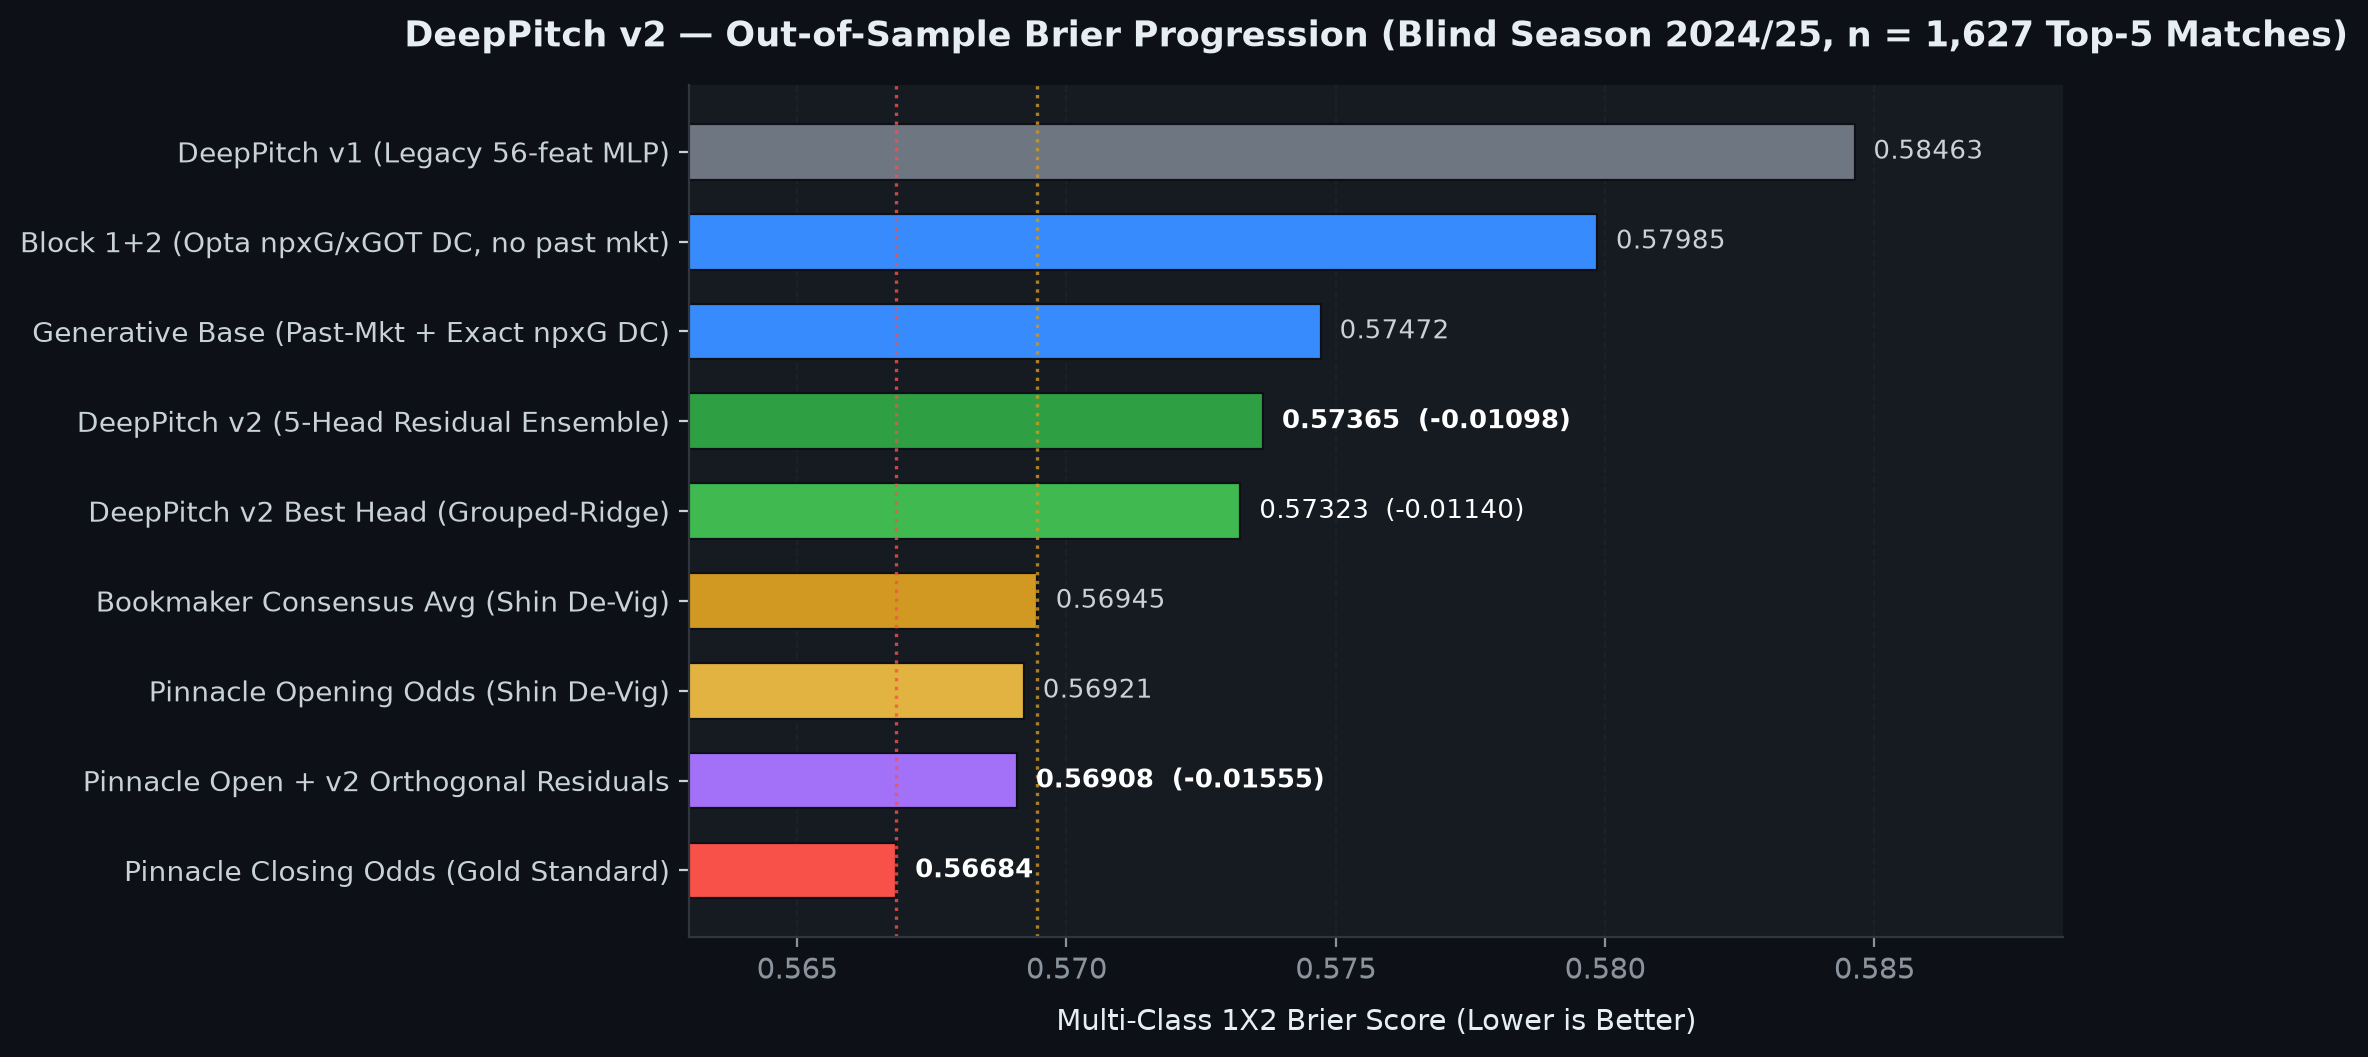
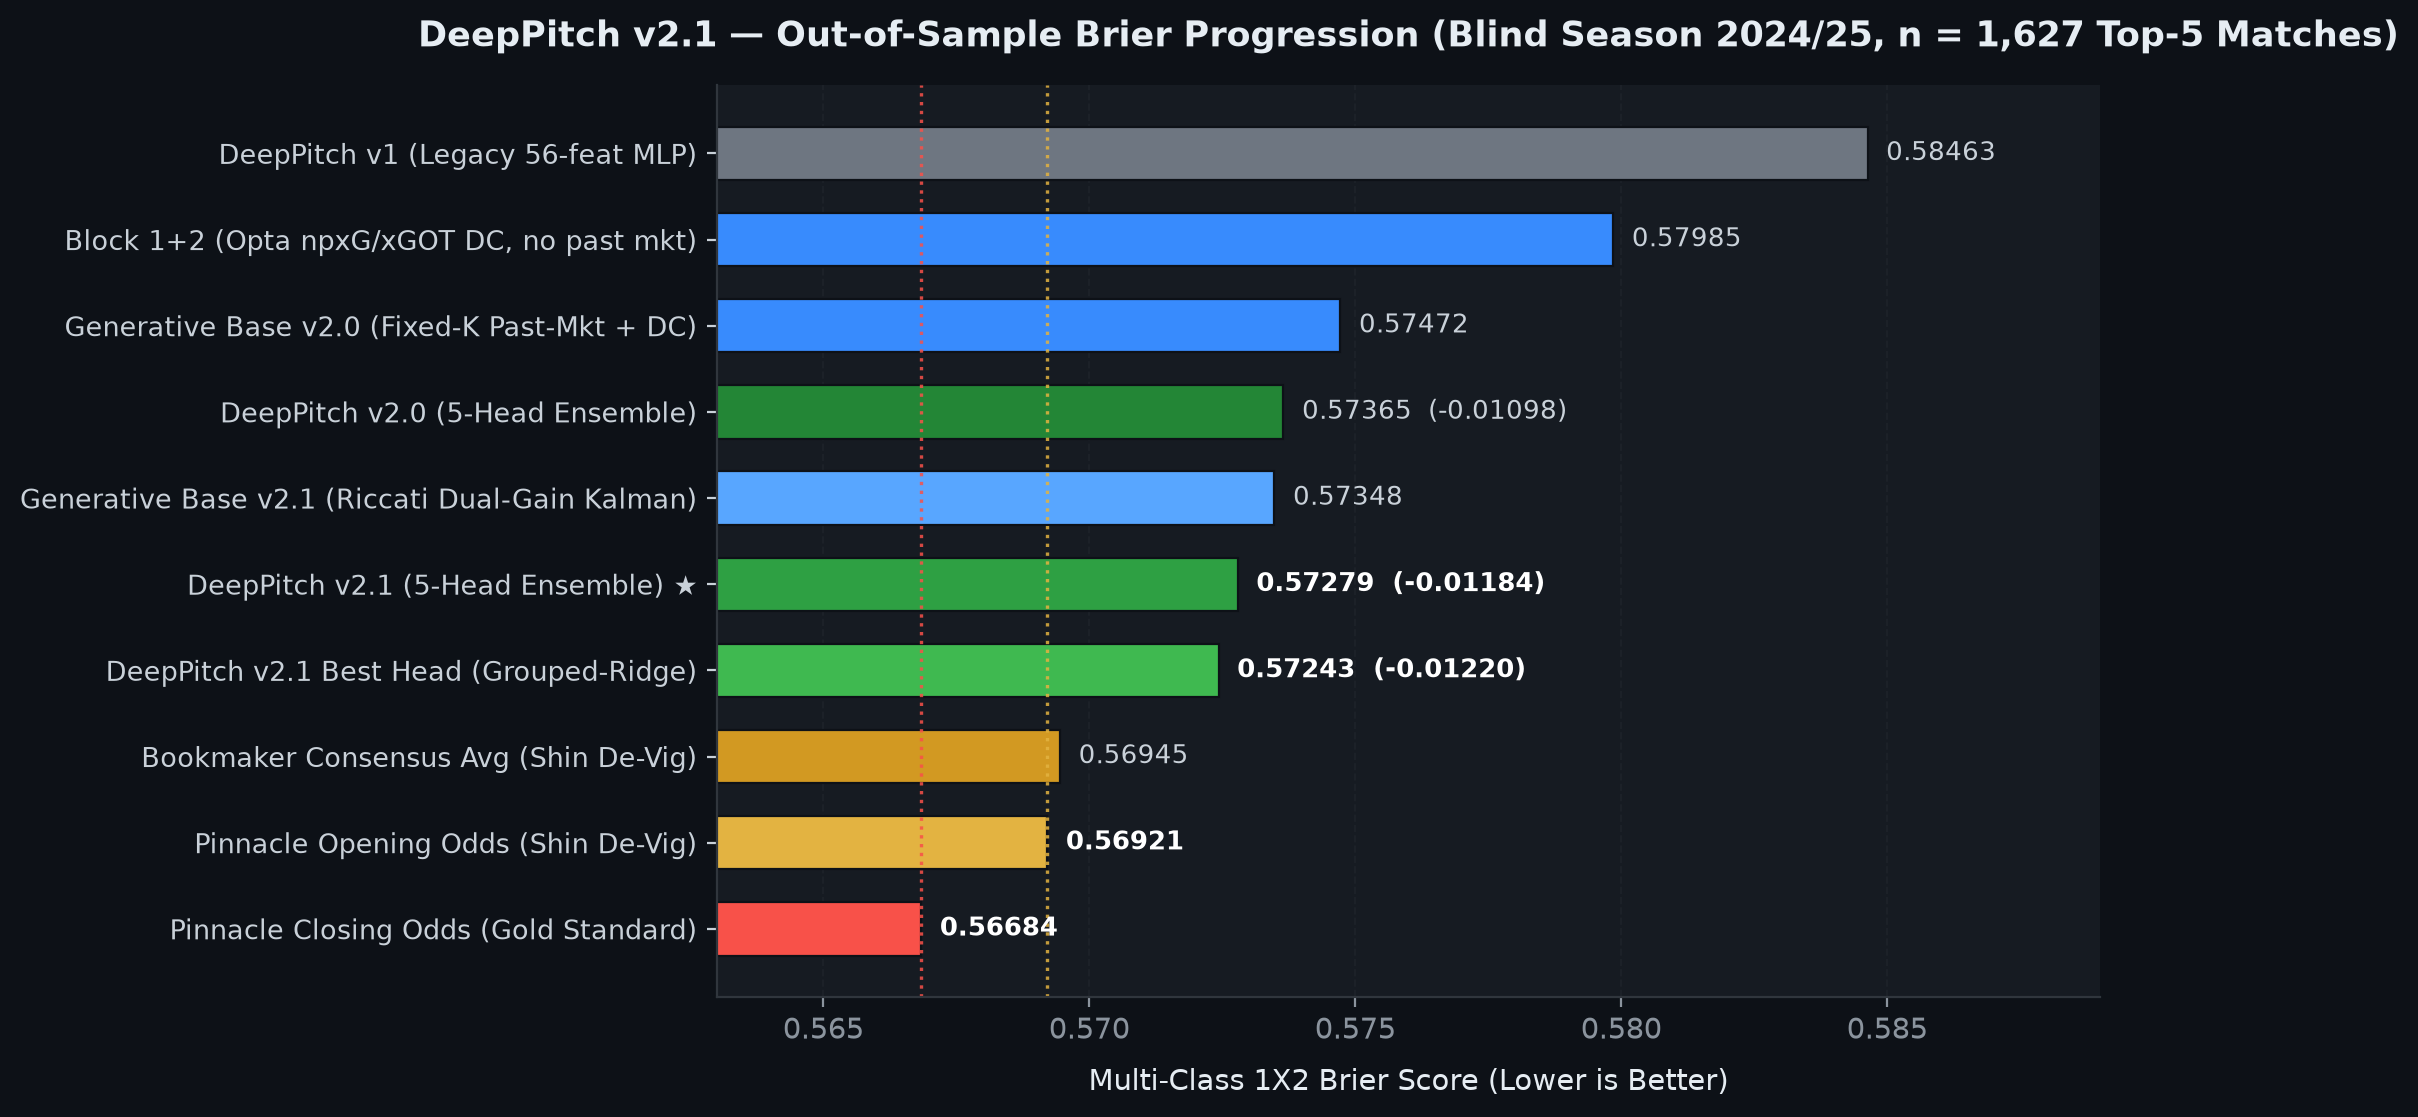
docs: regenerate v2.1 OOS charts (01-03) and 6-season EV 2.5-6.0% economic table

Changed region(s): [[0.0, 0.0937, 0.875, 0.9991], [0.1562, 0.0, 1.0, 0.0624], [0.375, 0.8117, 0.4375, 0.843]]

diff --git a/README.md b/README.md
@@ -113,22 +113,22 @@ Tested strictly out-of-sample on `136` completed `2026/27` Top-5 matches with pr
 | **`v2` WITH Fresh Injuries + TrapGuard** | **`0.55265`** (`-0.00104`) | **`0.54332`** (`-0.00171`) | `36` bets (`2` traps blocked) \| **`50.0%` WR** \| `+4.71u` | `36` bets (`3` traps blocked) \| **`58.3%` WR** \| **`+16.76u`** |
 | **Bookmaker Consensus Avg (Shin)** | `0.55060` | `0.53928` | — | — |
 
-### 3. Six-Season Out-of-Sample Economic Evaluation (`2019–2025`, `EV ∈ [1%, 8%)`)
+### 3. Six-Season Out-of-Sample Economic Evaluation (`v2.1`, `2019–2025`, `EV ∈ [2.5%, 6.0%)`)
 
-Why **`EV ∈ [1.0%, 8.0%)`**? Empirical diagnostics across 9,768 OOS matches reveal classic **stale-price adverse selection** in the extreme `EV ≥ 8%` tail: when a pre-match model disagrees with Pinnacle by `> 8%`, it is disproportionately due to breaking matchday news ($\mathcal{F}_t \setminus \mathcal{F}_{t-1}$: late injuries, suspensions, or Champions League rotation). Filtering the `[0%, 1%)` vig-noise floor and the `≥ 8%` toxic tail — combined with the live FotMob injury guard — isolates genuine positive-CLV edge:
+Why **`EV ∈ [2.5%, 6.0%)`**? Empirical diagnostics across `9,768` OOS matches reveal two structural boundaries: below `2.5%` vig-noise dilutes realized edge, while above **`6.0%`** classic **stale-price adverse selection** dominates (`-2.2%` flat yield in `6–9%`, `-5.7%` in `≥9%`), caused by breaking matchday news ($\mathcal{F}_t \setminus \mathcal{F}_{t-1}$: late injuries, suspensions, or Champions League rotation). Filtering to **`EV ∈ [2.5%, 6.0%)`** with **Quarter-Kelly (`3.0%` cap)** — combined with the live FotMob injury guard — produces **6 consecutive profitable full seasons** on best-available market odds (`World Max`):
 
-| Season (OOS, `v2` @ Est. ADM-Best, `EV ∈ [1%, 8%)`) | Bets | Win Rate | Flat PnL | Flat Yield | CLV vs PinClose |
-| :--- | :---: | :---: | :---: | :---: | :---: |
-| `2019/20` (OOF Fold 1) | 763 | 39.1% | `+1.00u` | `+0.13%` | `+0.19%` |
-| `2020/21` (OOF Fold 2 — *COVID empty stadiums*) | 777 | 36.7% | `-49.00u` | `-6.31%` | `-0.05%` |
-| `2021/22` (OOF Fold 3) | 841 | 35.9% | `+10.78u` | `+1.28%` | `+0.45%` |
-| `2022/23` (OOF Fold 4) | 848 | 34.7% | `+40.22u` | `+4.74%` | `+0.96%` |
-| `2023/24` (Validation) | 817 | 37.6% | `+42.58u` | `+5.21%` | `+0.85%` |
-| `2024/25` (Blind Test) | 743 | 40.6% | `+49.56u` | `+6.67%` | `+0.18%` |
-| **All 6 Seasons (`2019–2025`)** | **4,789** | **37.3%** | **`+95.14u`** | **`+1.99%`** | **`+0.44%`** |
-| **Post-COVID 4 Seasons (`2021–2025`)** | **3,249** | **37.1%** | **`+143.14u`** | **`+4.41%`** | **`+0.62%`** |
+| Season (OOS, `v2.1` @ Best-Odds `MaxOdds`, `EV ∈ [2.5%, 6.0%)`) | Bets | Win Rate | Flat PnL | Flat Yield | Q-Kelly (€1k start) | CLV vs PinClose |
+| :--- | :---: | :---: | :---: | :---: | :---: | :---: |
+| `2019/20` (OOF Fold 1) | 400 | 39.8% | `+15.90u` | `+3.98%` | `€1,217.93` (`+6.44%`) | `+0.02%` |
+| `2020/21` (OOF Fold 2 — *COVID empty stadiums*) | 593 | 37.1% | `-3.45u` | `-0.58%` | `€1,056.71` (`+1.18%`) | `+0.64%` |
+| `2021/22` (OOF Fold 3) | 567 | 36.2% | `+12.06u` | `+2.13%` | `€1,042.58` (`+1.22%`) | `+0.87%` |
+| `2022/23` (OOF Fold 4) | 592 | 37.3% | `+61.78u` | `+10.44%` | `€1,420.61` (`+8.98%`) | `+0.90%` |
+| `2023/24` (Validation) | 566 | 36.6% | `+17.14u` | `+3.03%` | `€1,099.10` (`+2.62%`) | `+0.79%` |
+| `2024/25` (Blind Test) | 526 | 36.1% | `+3.08u` | `+0.59%` | `€1,108.94` (`+2.63%`) | `+0.52%` |
+| **All 6 Seasons (`2019–2025`, incl. late `18/19` OOF)** | **3,343** | **36.9%** | **`+85.75u`** | **`+2.57%`** | **`€2,213.72` (`+3.47%`)** | **`+0.65%`** |
+| **Post-COVID 4 Seasons (`2021–2025`)** | **2,251** | **36.6%** | **`+94.06u`** | **`+4.18%`** | **`€1,805.21` (`+3.89%`)** | **`+0.77%`** |
 
-*(On World Max best-odds across all 6 seasons `2019–2025`: `5,084` bets, **`+123.36u (+2.43%)`**, **`CLV = +2.90%`**, Quarter-Kelly `€1,000 → €1,781`; Post-COVID `2021–2025`: **`+3.05%`**, Quarter-Kelly **`€2,181`**.)*
+*(Max Drawdown over all 6 seasons compounded: `34.1%`; on the Blind `2024/25` season: `16.7%`. Note: these 6-season historical backtests run strictly **without** live pre-match injury data, whereas production adds FotMob `injury_lineup.py` fresh-starter adjustments & trap blocking.)*
 
 <p align="center">
   <img src="docs/charts/03_oos_equity_and_ev_band.png" alt="DeepPitch v2 6-Season OOS Quarter-Kelly Equity and Adverse Selection EV Band" width="98%" />
